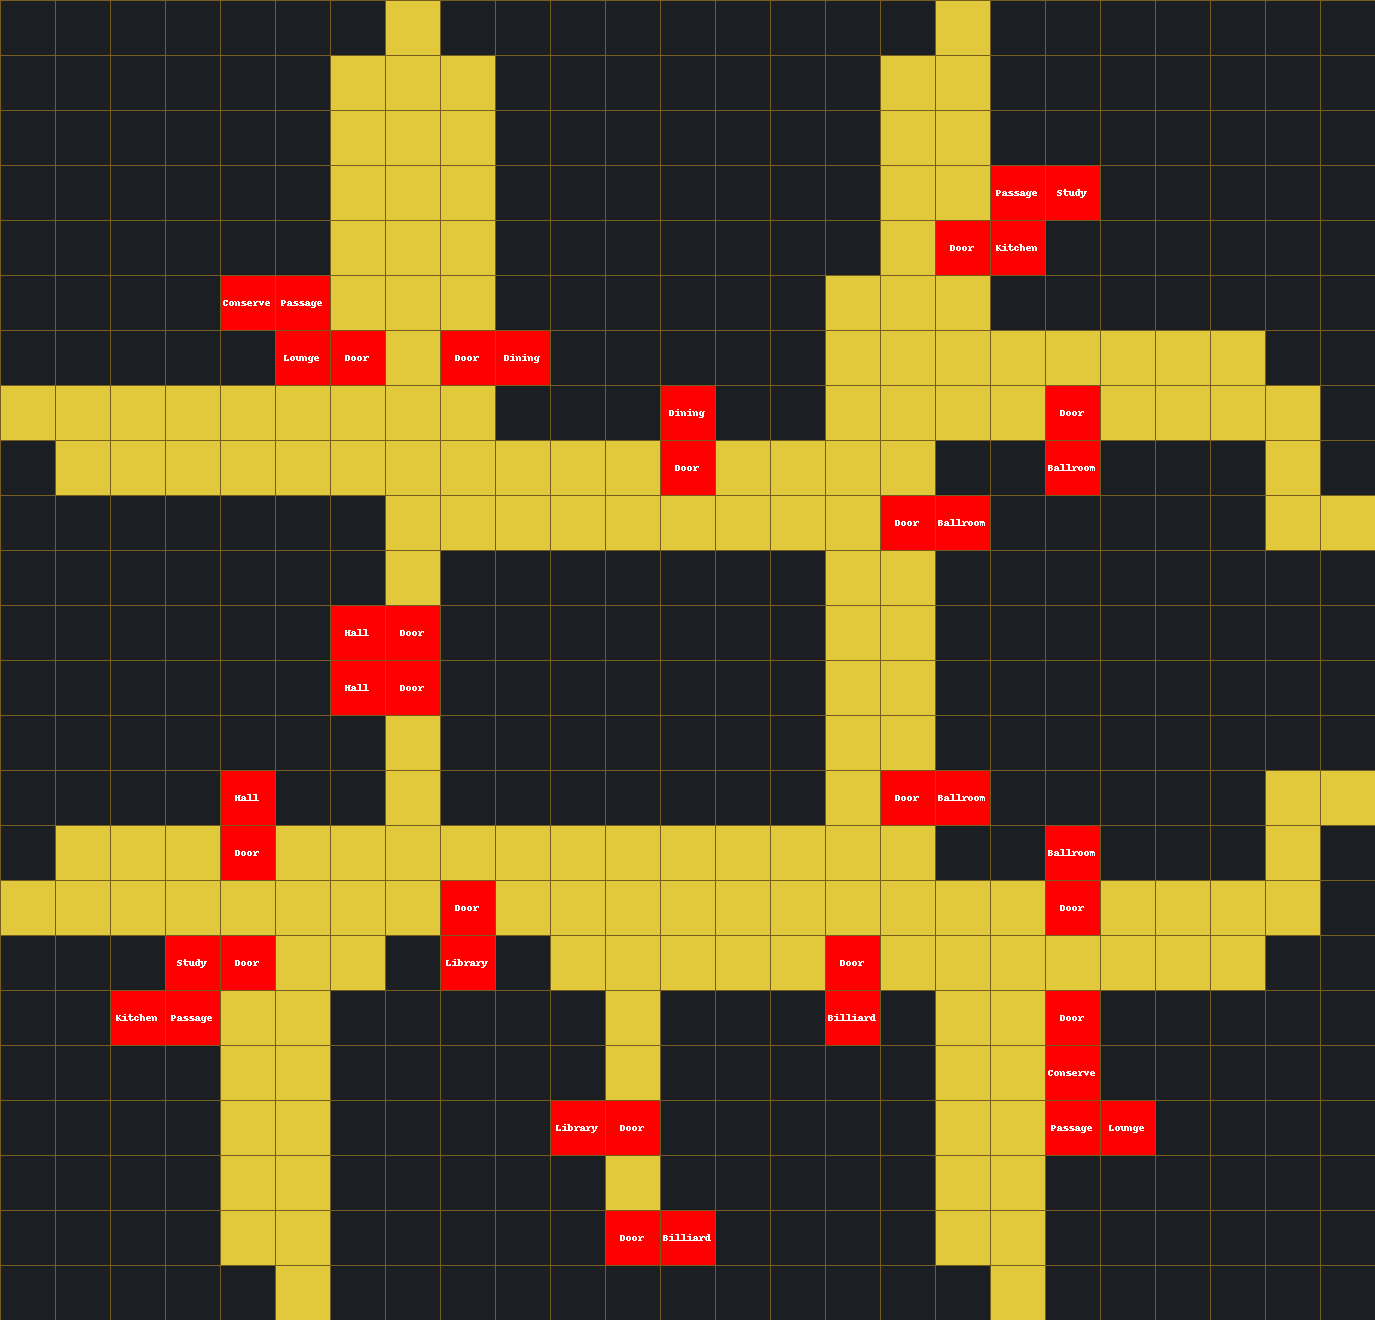
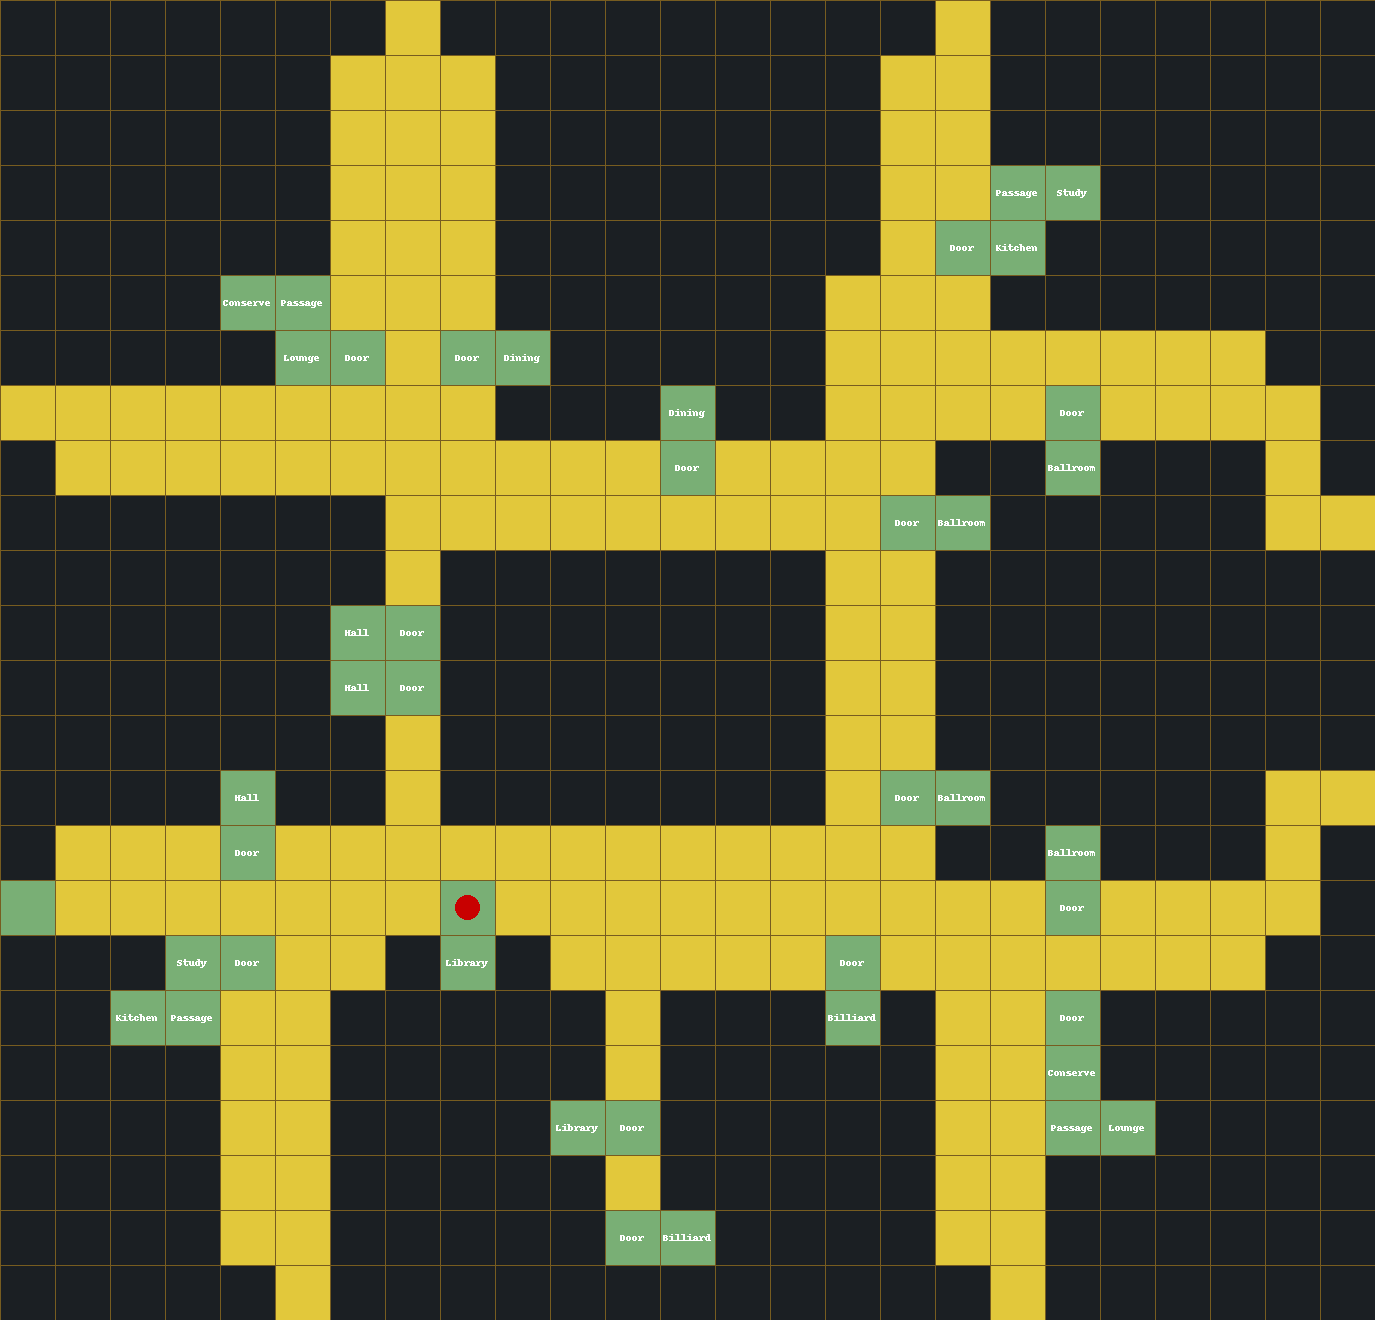
feat: draw board and handle movement

diff --git a/board.py b/board.py
@@ -57,7 +57,7 @@ class Board(object):
             self.__weapons.copy().union(self.__rooms.copy())
         )
 
-    def draw(self, path=BOARD_IMG_PATH):
+    def draw(self, cpu_player, path=BOARD_IMG_PATH):
         from PIL import Image, ImageDraw, ImageFont
 
         # set the width and height of the board
@@ -79,7 +79,7 @@ class Board(object):
                 elif tile == WALL:
                     colour = (27, 31, 35)
                 else:
-                    colour = (255, 0, 0)  # default color for other tiles
+                    colour = (121, 175, 117)  # default color for other tiles
 
                 # calculate the top-left and bottom-right corners of the tile
                 top_left = (
@@ -109,6 +109,22 @@ class Board(object):
                     draw.text(
                         (text_x, text_y), tile, font=font, fill=(255, 255, 255)
                     )  # white text
+
+        # Draw the CPU player token
+        cpu_location = self.__suspect_locations[cpu_player]  # get CPU player's location
+        cpu_x, cpu_y = cpu_location
+        cpu_center = (
+            cpu_x * (TILE_SIZE + TILE_BORDER) + (TILE_SIZE + TILE_BORDER) // 2,
+            cpu_y * (TILE_SIZE + TILE_BORDER) + (TILE_SIZE + TILE_BORDER) // 2,
+        )
+        cpu_radius = TILE_SIZE // 4  # size of the token
+        draw.ellipse(
+            [
+                (cpu_center[0] - cpu_radius, cpu_center[1] - cpu_radius),
+                (cpu_center[0] + cpu_radius, cpu_center[1] + cpu_radius),
+            ],
+            fill=(200, 0, 0),  # Red token for CPU player
+        )
 
         img.save(path)
         print(f"Detective notes saved to {path}.")

diff --git a/clue_algorithm.py b/clue_algorithm.py
@@ -47,9 +47,9 @@ class ClueAlgorithm(object):
         """
         Runs the Clue game.
         """
-        self.__notes.draw()
-        self.__board.draw()
         while True:
+            self.__board.draw(self.__cpu_player)
+            self.__notes.draw()
             self.__cpu_turn()
 
     def save_game(self, file_name="game_state.pkl"):
@@ -85,6 +85,7 @@ class ClueAlgorithm(object):
 
         # travel to destination
         self.__board.move_player(self.__cpu_player, desired_room, roll, path_data)
+        self.__board.draw(self.__cpu_player)
 
         self.__notes.reveal_card("Mustard", input())
 
